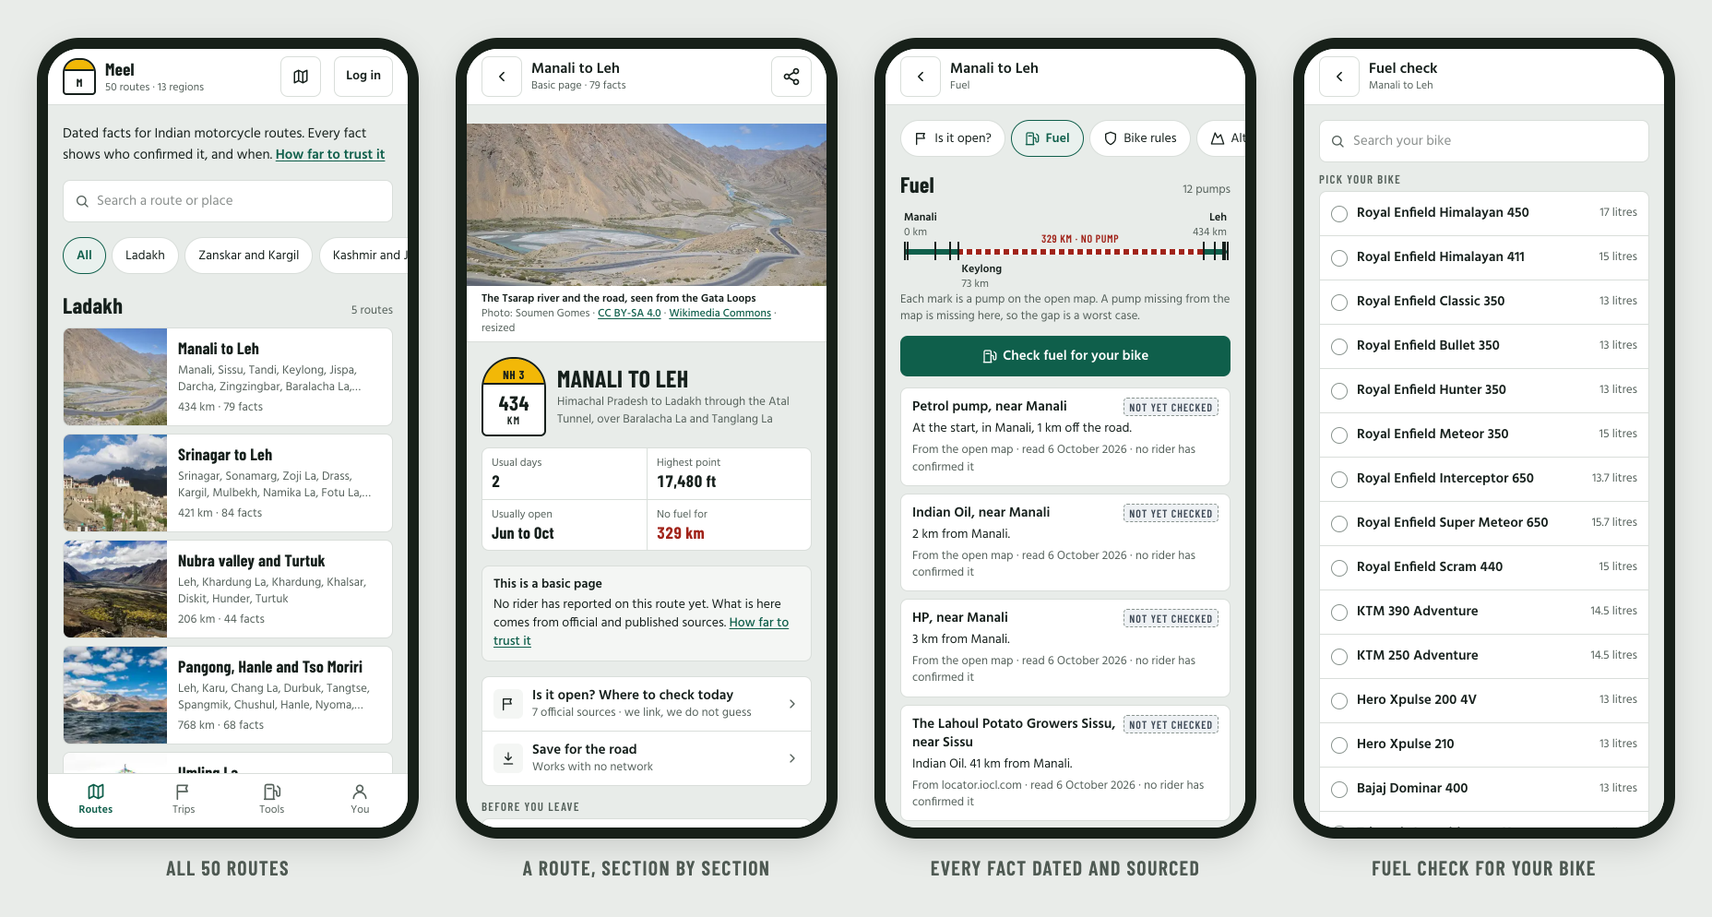
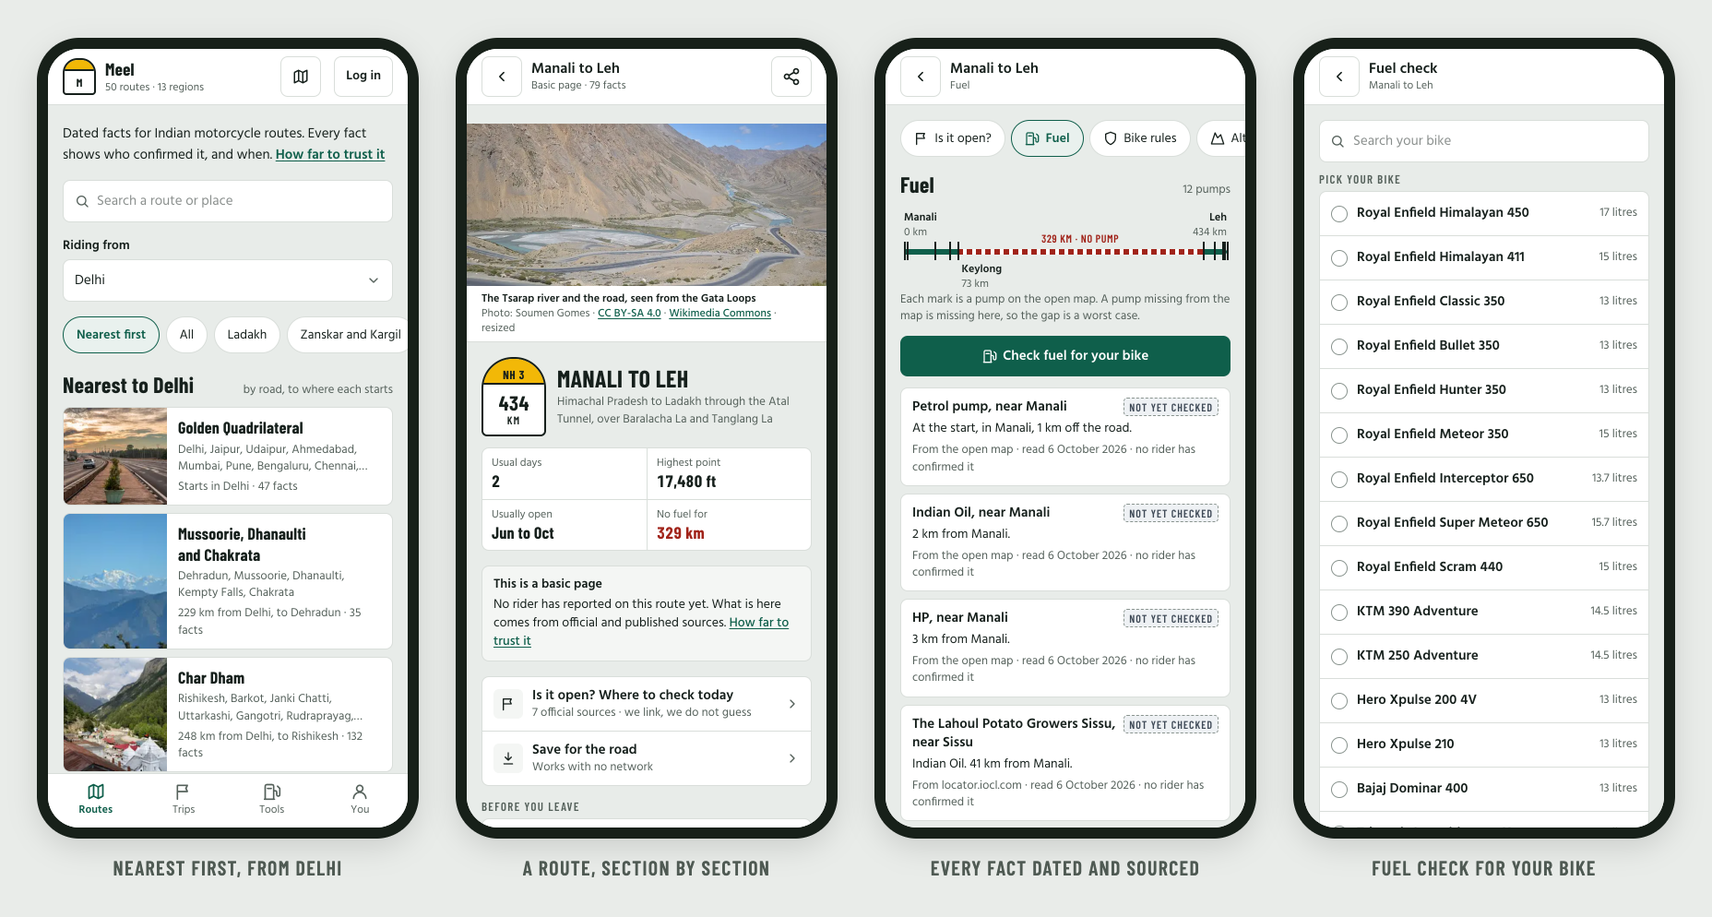
README for an open-source project: live site, privacy, security, contributing
The README still described a private site that had not opened. Now it links rideplanner.in at the top, gives today's
road length (about 31,000 km), says what the live site counts and what it never sends, shows what the site reads every
hour, and credits every source (Open-Meteo, NDMA SACHET, OSRM, Nominatim, Overpass, Wikidata, the oil companies'
locators). New: SECURITY.md (private reports through GitHub), CONTRIBUTING.md, two issue templates, and the phone
screens taken again from the live site, riding from Delhi. web/README.md and the plan's opening brought up to date.

Changed region(s): [[0.0312, 0.2495, 0.2188, 0.8421], [0.0625, 0.9356, 0.1875, 0.9668], [0.1875, 0.2807, 0.2188, 0.3119]]

diff --git a/README.md b/README.md
@@ -16,18 +16,19 @@
 [![Auth.js](https://img.shields.io/badge/Auth.js-Google_and_email-0f5f4b)](https://authjs.dev)
 [![Hosted on Vercel](https://img.shields.io/badge/Vercel-Singapore-16201c?logo=vercel&logoColor=white)](https://vercel.com)
 <br>
+[![Live at rideplanner.in](https://img.shields.io/badge/live-rideplanner.in-0f5f4b)](https://rideplanner.in)
 [![Status: early](https://img.shields.io/badge/status-early,_facts_not_yet_confirmed_by_riders-f2b807)](#how-far-to-trust-it)
 [![Kept as a hobby](https://img.shields.io/badge/kept_by-one_person,_as_a_hobby-f2b807)](#the-rules-it-keeps)
 [![Licence: MIT for the code](https://img.shields.io/badge/licence-MIT_for_the_code-0f5f4b)](#licence)
 
-[What it does](#what-it-does) · [How far to trust it](#how-far-to-trust-it) · [How it works](#how-it-works) · [Run it yourself](#run-it-on-your-machine) · [The wireframes](design)
+**[Open rideplanner.in](https://rideplanner.in)** · [What it does](#what-it-does) · [How far to trust it](#how-far-to-trust-it) · [How it works](#how-it-works) · [What the live site counts](#what-the-live-site-counts) · [Run it yourself](#run-it-on-your-machine) · [Contributing](CONTRIBUTING.md)
 
 </div>
 
 <br>
 
 <p align="center">
-  <img src=".github/readme/screens.png" alt="Four phone screens: all fifty routes; the Manali to Leh route page; its fuel section, where each pump is dated and sourced; and the fuel check, which asks for your bike" width="100%">
+  <img src=".github/readme/screens.png" alt="Four phone screens: the routes nearest to Delhi, each with its distance by road; the Manali to Leh route page; its fuel section, where each pump is dated and sourced; and the fuel check, which asks for your bike" width="100%">
 </p>
 
 ## Why Meel
@@ -44,7 +45,7 @@ Meel is the memory those groups don't have. It keeps **one page per route**, spl
 
 | | |
 |---|---|
-| **50 routes, section by section** | From Manali to Leh and the Spiti circuit to the Konkan coast and the North-East: 13 regions and about 33,600 km of road. The highest point on any route is Umling La, at 19,030 ft. Heights are given in feet, as pass signboards give them. |
+| **50 routes, section by section** | From Manali to Leh and the Spiti circuit to the Konkan coast and the North-East: 13 regions and about 31,000 km of road. The highest point on any route is Umling La, at 19,030 ft. Heights are given in feet, as pass signboards give them. |
 | **Every fact dated and sourced** | 4,294 facts, each with its source, the day it was read, and a state: fresh, ageing, stale, not yet checked, or riders disagree. |
 | **Riding from your city** | Pick Delhi, Chandigarh or ten other cities once, and every route says how far its start is by road, nearest first. Each route's "Getting there" gives the towns on the way, the ride back, and links to open the road in a map app. |
 | **Fuel check** | Pick your bike, and the route says where your tank runs short and how much extra to carry. |
@@ -72,23 +73,28 @@ Meel is the memory those groups don't have. It keeps **one page per route**, spl
 ## How far to trust it
 
 > [!IMPORTANT]
-> **Meel is early.** Every fact was gathered at a desk, from official and published sources, in September 2026. **No rider has confirmed any of it yet**, which is why the screens above say "not yet checked". Riders' reports are what will turn these pages into something to rely on. Until then, treat each fact as a lead to check, and look at its date.
+> **Meel is early.** Every fact was gathered at a desk, from official and published sources, in September and October 2026. **No rider has confirmed any of it yet**, which is why the screens above say "not yet checked". Riders' reports are what will turn these pages into something to rely on. Until then, treat each fact as a lead to check, and look at its date.
 
-The site is not public yet. It runs privately while the facts are checked, and will open at **rideplanner.in**.
+The site has been live at **[rideplanner.in](https://rideplanner.in)** since 8 October 2026. Every fact there has two buttons, "Still true" and "This has changed", and neither needs an account.
 
 ## How it works
 
 ```mermaid
 flowchart LR
   subgraph sources ["Sources"]
-    OSM["OpenStreetMap"]
+    OSM["OpenStreetMap<br/>with Overpass, Nominatim, OSRM"]
     NASA["NASA heights"]
     WM["Wikimedia Commons"]
     GOV["Official pages"]
   end
   subgraph repo ["In this repository"]
     TOOLS["data/tools<br/>Python, no dependencies"]
-    DATA["data/routes<br/>one file per route"]
+    DATA["data/routes and data/site<br/>one file per route"]
+  end
+  subgraph live ["Read by the site every hour"]
+    ALERTS["Government alert feed<br/>NDMA SACHET"]
+    OFFICES["Offices' own pages<br/>and road closures"]
+    METEO["Open-Meteo forecast"]
   end
   subgraph site ["The website"]
     PAGES["Route, section and fact pages<br/>built ahead, rebuilt every hour"]
@@ -100,6 +106,9 @@ flowchart LR
   WM --> TOOLS
   GOV -->|desk research| DATA
   TOOLS --> DATA --> PAGES
+  ALERTS --> PAGES
+  OFFICES --> PAGES
+  METEO --> PAGES
   RIDER(("Rider")) -->|reads, no account| PAGES
   RIDER -->|reports a fact| DB
   RIDER -->|joins a trip| AUTH --> DB
@@ -109,14 +118,31 @@ flowchart LR
 
 Routes and facts live in files, in `data/`, so every change to a fact is a change you can read in git. Pages are built ahead and rebuilt every hour, so they load fast on a weak signal. Only what riders create lives in the database: accounts, trips, requests to join, and reports.
 
+Some things change by the hour, so the site reads them itself and shows each with the time it was read: official alerts for the districts a road crosses, the date on a few offices' own pages, Uttarakhand's list of closed roads, and a forecast for the passes, every three hours. None of it is ever turned into "open" or "closed".
+
+The distance from twelve cities to each route's start is worked out once, by `data/tools/approaches.py`. Where the shortest road would cross into Bangladesh or Nepal, the road is sent by an Indian town instead, and the page says so.
+
 | Part | What it uses |
 |---|---|
 | Website | [Next.js 16](https://nextjs.org) with the App Router, [React 19](https://react.dev), [Tailwind CSS 4](https://tailwindcss.com), TypeScript in strict mode |
 | Database | Postgres through [Prisma 7](https://www.prisma.io). Live: [Neon](https://neon.tech) in Singapore, beside the site's functions |
 | Logging in | [Auth.js](https://authjs.dev): Google, or an email and a password scrambled with scrypt |
 | Data tools | Python, standard library only, in `data/tools/` |
+| Read every hour | Each read has a time limit and never stops a page loading. Alerts are kept for half an hour, offices' pages and closures for an hour, the forecast for three |
+| Counting visits | [Mixpanel](https://mixpanel.com), on its EU servers, and Vercel's own page counts. See [what the live site counts](#what-the-live-site-counts) |
 | Hosting | [Vercel](https://vercel.com). Every push to `main` deploys, and database migrations run on each live build |
 | Offline | A service worker keeps a saved route. Reports made offline wait on the phone |
+
+## What the live site counts
+
+rideplanner.in counts visits, so its keeper can see which routes and tools are used. In plain words:
+
+- **Pages opened**, by their address up to the "?", and **the tools riders use**, such as the fuel check or a map app. The full list, about 40, with what each one carries, is [`web/src/lib/analytics-events.ts`](web/src/lib/analytics-events.ts). They go to Mixpanel, on its EU servers. Vercel also counts page views.
+- **Screen recordings** of how pages are used: a replay of the page, not a video of the screen. Everything typed is hidden, and so are riders' names and trip chat links. Pages about an account, logging in, posting a trip and the editor's desk are never recorded.
+- **Never sent:** a name, an email, a phone number, or anything typed into a box. Logged-in riders are not identified. A browser set to "Do Not Track" is not counted, and nor is a robot or a test tool.
+- **A copy you run yourself counts nothing.** Mixpanel's token comes from a setting, `NEXT_PUBLIC_MIXPANEL_TOKEN`, not from the code. Details are in [`web/README.md`](web/README.md#mixpanel).
+
+A privacy notice on the site itself is still to come.
 
 ## Run it on your machine
 
@@ -159,31 +185,42 @@ New here? Start with [`docs/plan.md`](docs/plan.md): its first part says what ex
 
 - [x] Fifty routes, with every fact dated and sourced
 - [x] Fuel, altitude and packing checks
+- [x] Official alerts, offices' own dates, road closures and pass weather, read every hour
+- [x] A route file for map apps, an emergency card, and a message for someone at home
+- [x] Distances from twelve cities, nearest first
 - [x] Fact reports and trip reports, and the editor's desk
 - [x] Trips board, with accounts through Google or email
 - [x] Saving a route for no network
+- [x] Open at rideplanner.in (8 October 2026), with this code public (9 October)
 - [ ] Riders confirming the facts: the step that matters most
-- [ ] Opening at rideplanner.in, with a privacy notice
+- [ ] A privacy notice on the site
+- [ ] Logging in with Google for everyone: while Google's consent screen is in testing, only listed accounts can
 - [ ] Password reset by email
 - [ ] Logging in with a phone number
 - [ ] Automatic tests
 
 ## Contributing
 
-**If you ride:** the most useful thing you can do is check a fact on a road you know, and say whether it is still true. That needs no account. When the site opens, every fact will have a button for it.
+**If you ride:** the most useful thing you can do is check a fact on a road you know. Every fact on [rideplanner.in](https://rideplanner.in) has two buttons, "Still true" and "This has changed", and neither needs an account. After a trip, a [trip report](https://rideplanner.in/report) takes about three minutes.
 
-**If you write code:** read [`web/README.md`](web/README.md) first. A change to a screen starts in the wireframes, in [`design/`](design), before it is built. Keep the words plain: the site talks to riders, not to developers.
+**If you write code or fix data:** read [`CONTRIBUTING.md`](CONTRIBUTING.md). In short: a change to a screen starts in the wireframes, a fact needs its source and a date, and the words stay plain, because the site talks to riders, not to developers.
+
+**Found a security problem?** Please don't open an issue. [`SECURITY.md`](SECURITY.md) says how to report it privately.
 
 ## Credits
 
 Meel stands on other people's work, and names it:
 
-- **Map data** © [OpenStreetMap contributors](https://www.openstreetmap.org/copyright), available under the Open Database Licence.
+- **Map data** © [OpenStreetMap contributors](https://www.openstreetmap.org/copyright), under the Open Database Licence: places, road lines, fuel pumps, hospitals and police stations, and the districts each road crosses. Read through [Overpass](https://overpass-api.de), [Nominatim](https://nominatim.org) and the [OSRM](https://project-osrm.org) road router, which also gives the distances from cities.
 - **Heights** from NASA's Shuttle Radar Topography Mission, served by [Open Topo Data](https://www.opentopodata.org).
+- **Weather at the passes** from [Open-Meteo](https://open-meteo.com), under [CC BY 4.0](https://creativecommons.org/licenses/by/4.0/).
+- **Official alerts** from the government's alert feed, [NDMA SACHET](https://sachet.ndma.gov.in), in the issuer's own words.
+- **District codes** from [Wikidata](https://www.wikidata.org), which is public domain.
+- **Fuel pumps** missing from the map, from IndianOil's and HP's own pump locators. Each pump links to its page there.
 - **Pictures** from [Wikimedia Commons](https://commons.wikimedia.org), each credited beside it, with its author and licence.
 - **Fonts:** [Barlow Condensed](https://fonts.google.com/specimen/Barlow+Condensed) and [Hind](https://fonts.google.com/specimen/Hind), under the SIL Open Font Licence.
 
-The full list, source by source, is on the site's credits page, and in [`data/README.md`](data/README.md).
+The full list, source by source, is on the site's [credits page](https://rideplanner.in/credits), and in [`data/README.md`](data/README.md).
 
 ## Licence
 

diff --git a/web/README.md b/web/README.md
@@ -89,6 +89,8 @@ The list of events, with what each one means and the details it carries, is `src
 
 What is never sent: a name, an email, a phone number, anything typed into a box, or the part of an address after "?". Mixpanel's own automatic click capture is off. Its random visitor number is kept in the browser's storage, not a cookie. A browser set to "Do Not Track" is not counted. Logged-in riders are not identified.
 
+**Robots are not counted or recorded.** Mixpanel skips the crawlers it knows by name, but not a browser run by a program: headless Chrome, Google's page inspector, link previews, test tools. `looksAutomated()` in `src/lib/analytics.ts` checks the browser's own automation flag and the words only programs put in a browser's name; for such a visit Mixpanel is never loaded. To test counting with Playwright, give the page an ordinary phone's browser name and set `navigator.webdriver` to false, or nothing is sent.
+
 **Screen recordings** (Mixpanel's Session Replay) are on for every visit, or the share set in `NEXT_PUBLIC_MIXPANEL_RECORD_PERCENT` (0 turns them off). A recording replays the page, not the screen. In it:
 - everything typed into a box is hidden;
 - text inside an element marked `data-private` is hidden;
@@ -108,7 +110,7 @@ Only you can do this, because it is done in your own Google account.
 3. While the consent screen is in testing, only the Google accounts you list as test users can log in. Publish it when riders should.
 4. Under **Clients**, make a client of the type **Web application**. Under **Authorised redirect URIs**, add all three:
    - `http://localhost:3000/api/auth/callback/google`
-   - `https://meel-livid.vercel.app/api/auth/callback/google`, the address the site has on Vercel until the domain points at it
+   - `https://meel-livid.vercel.app/api/auth/callback/google`, the site's own address on Vercel, which still answers
    - `https://rideplanner.in/api/auth/callback/google`
 5. Copy the client id into `AUTH_GOOGLE_ID` and the secret into `AUTH_GOOGLE_SECRET`, and restart the site. Google shows the secret only once, when the client is made: download its JSON file then, and keep it outside this folder.
 
@@ -148,6 +150,8 @@ If someone logs in with Google and their email already has a Meel account made w
 | What | Where | In git |
 |---|---|---|
 | Routes, facts, sources, picture credits | `../data/` | Yes |
+| Distances from twelve cities, and the towns on the way | `../data/site/route-approaches.json`, made by `../data/tools/approaches.py` | Yes |
+| The city a rider rides from | That rider's own phone (`meel-riding-from` in the browser's storage) | No |
 | Accounts, trips, reports, Google links | The Postgres database in `DATABASE_URL` | No |
 | The shape of those tables | `prisma/schema.prisma` and `prisma/migrations/` | Yes |
 | Who is logged in on a phone | A sealed cookie on that phone. It holds the rider's id and a session number, nothing else | No |
@@ -230,12 +234,12 @@ dropdb meel_scratch
 ## Search engines
 
 - **Only rideplanner.in can be listed.** Every other address the site answers on (meel-livid.vercel.app, a deployment's own address, this machine) sends `X-Robots-Tag: noindex`. See `next.config.ts`.
-- `/robots.txt` and `/sitemap.xml` are made by `src/app/robots.ts` and `src/app/sitemap.ts`. The sitemap lists every route, section, tool and fact page, about 3,400 addresses.
+- `/robots.txt` and `/sitemap.xml` are made by `src/app/robots.ts` and `src/app/sitemap.ts`. The sitemap lists every route, section, tool and fact page: 3,993 addresses on 8 October 2026.
 - Every public page names its own address on rideplanner.in as the canonical one. Pages for one rider, and the pages on the way to logging in, say `noindex`.
 - Search results can show a trail (Meel › Manali to Leh › Fuel) and a search box, from structured data in the pages.
 - Share cards: every fact has its own, Meel has one for the site (`src/app/opengraph-image.tsx`), and a route uses its picture.
 
-**When the site goes public on rideplanner.in**, add it to [Google Search Console](https://search.google.com/search-console) and [Bing Webmaster Tools](https://www.bing.com/webmasters), prove you own the domain, and submit `https://rideplanner.in/sitemap.xml`. Until the domain points at the site, share cards made in production point at rideplanner.in and will not load.
+**Done on 8 and 9 October 2026:** rideplanner.in is in [Google Search Console](https://search.google.com/search-console), proven by a record in the domain's DNS, and in [Bing Webmaster Tools](https://www.bing.com/webmasters). `https://rideplanner.in/sitemap.xml` was submitted to both.
 
 ## Good to know
 

diff --git a/CONTRIBUTING.md b/CONTRIBUTING.md
@@ -1,0 +1,61 @@
+# Contributing to Meel
+
+Thank you for wanting to help. Meel is kept by one person, as a hobby, so the most useful help is the kind that is easy to check.
+
+## If you ride
+
+You do not need this repository at all.
+
+- **Check a fact on a road you know.** Every fact on [rideplanner.in](https://rideplanner.in) has two buttons, "Still true" and "This has changed". Neither needs an account, and the editor reads every report before a fact changes.
+- **Send a trip report** after a ride, at [rideplanner.in/report](https://rideplanner.in/report). It takes about three minutes, and it is how the sections only riders can fill (mechanics, network, riding hours, stays) get written.
+- **Missing a route?** Search for it on the front page. When nothing matches, "Suggest this place" sends it to the editor.
+
+Please do not open a GitHub issue to correct a fact: the buttons on the site are quicker, and they keep the fact's history in one place.
+
+## If you fix data
+
+Routes and facts live in [`data/`](data), one file per route. [`data/README.md`](data/README.md) explains every part of a route file.
+
+- **Every fact needs its source and the day it was read.** A link to the page, and whether the page itself was opened or only a search result was seen.
+- **Write facts in your own words.** Never paste text from another site.
+- **No private people.** No names or phone numbers of mechanics, homestay owners or riders.
+- **The data keeps its sources' licences**, not MIT. See [`data/LICENSE.md`](data/LICENSE.md). Map data you add from OpenStreetMap stays under the Open Database Licence.
+- The scripts in [`data/tools/`](data/tools) need only Python 3, with no packages to install. After changing a route, run `python3 data/tools/assemble.py`, then `pnpm sync-data` in `web/`.
+
+## If you write code
+
+Start with [`web/README.md`](web/README.md): how to run the site, every setting, and the rules the code keeps.
+
+- **A change to a screen starts in the wireframes**, in [`design/meel-wireframes.src.html`](design/meel-wireframes.src.html), before it is built. Open `design/meel-wireframes.html` in a browser to see them; it is the same file inside a page shell. Each frame's notes are the specification.
+- **Keep the words plain.** The site talks to riders, often on a weak signal and in sunlight, not to developers.
+- **The site never says a road is open.** It links to the office that decides.
+- **Anything new that shows a rider's name, contact or chat link** needs `data-private` or `data-private-block`, so screen recordings leave it out. See "Mixpanel" in `web/README.md`.
+- **No secrets in the code.** Every key and password is a setting, read from the environment.
+
+Before you open a pull request, from `web/`:
+
+```bash
+pnpm typecheck
+```
+
+```bash
+pnpm lint
+```
+
+```bash
+pnpm build
+```
+
+In the pull request, say what changed, why, and how you checked it. For a change to a screen, add a picture of it on a phone.
+
+## Licence of what you send
+
+Code you contribute is under the [MIT licence](LICENSE), like the rest of the code. Data you contribute keeps the licence of its source.
+
+## Security problems
+
+Please do not report them in an issue or a pull request. [`SECURITY.md`](SECURITY.md) says how to report one privately.
+
+## Being decent
+
+Be kind and patient with each other. Riders of every kind of bike, and every level of experience, are welcome here.

diff --git a/docs/plan.md b/docs/plan.md
@@ -2,7 +2,10 @@
 
 **Date:** 28 September 2026
 **Status:** DRAFT, awaiting your decisions. **A first version of the site was built on 28 September 2026, at your request, ahead of this plan's timeline.** Read "What was built on 28 September 2026" first. Where that section and the rest of this plan disagree, that section is what happened.
-**Built on:** `reports/India rider platform research.md`, which is interim and has not been through a verification pass.
+**Built on:** `reports/India rider platform research.md`, which is interim and has not been through a verification pass. It quotes forum members word for word, so it is kept outside this repository.
+
+> [!NOTE]
+> **Where it stands, 9 October 2026.** The site is live at [rideplanner.in](https://rideplanner.in) (since 8 October), and this repository is public (since 9 October). Since this plan was written, the site has gained: official alerts and offices' own dates read every hour, weather at the passes, a route file for map apps, an emergency card, a message for someone at home, oil companies' pumps where the map had none, distances from twelve cities, and counting through Mixpanel. No rider has confirmed a fact yet. The rest of this document is the plan as written on 28 September 2026. For the site as it is today, read the [README](../README.md).
 
 ---
 
@@ -26,7 +29,7 @@ You asked for wireframes, then the data, then the site itself, built overnight w
 
 | What | Where |
 |---|---|
-| Everything | The folder `meel/`, and the private repository `vishalmeena2211/meel` on GitHub |
+| Everything | The folder `meel/`, and the repository `vishalmeena2211/meel` on GitHub (public since 9 October 2026) |
 | Wireframes, 30 screens | `design/meel-wireframes.html` |
 | Data for 50 routes | `data/`, explained in `data/README.md` |
 | The website | `web/`, explained in `web/README.md` |

diff --git a/SECURITY.md b/SECURITY.md
@@ -1,0 +1,29 @@
+# Security
+
+Meel keeps riders' accounts in a database: an email, the name a rider shows, a home city, and a password scrambled with scrypt. It also keeps trips, their chat group links, and riders' reports. If you find a way to read or change something you should not be able to, please tell me privately, so it can be fixed before anyone else uses it.
+
+## How to report
+
+Use **[Report a vulnerability](https://github.com/vishalmeena2211/meel/security/advisories/new)**, under this repository's Security tab. Only you and the keeper can see the report.
+
+Please do not open a public issue, a pull request or a discussion about it.
+
+Say:
+
+- what you found, and where (the page's address, or the file and line);
+- the steps to see it happen;
+- what it would let someone do.
+
+## While you look
+
+- Use an account you made yourself. Do not open, change or keep other riders' details beyond what shows the problem, and delete anything you saw once you have reported it.
+- Do not run tests that flood the site, send spam reports, or try passwords against other people's accounts.
+- Do not attack the services the site runs on (Vercel, Neon, Google, Mixpanel). Report problems in them to them.
+
+## What happens next
+
+Meel is kept by one person, as a hobby. You will get an answer within a week, then a fix as soon as one can be made safely. If you would like, you will be thanked by name when the fix is out.
+
+## What is covered
+
+The live site at [rideplanner.in](https://rideplanner.in) and the code on the `main` branch here. Older versions are not kept up.
